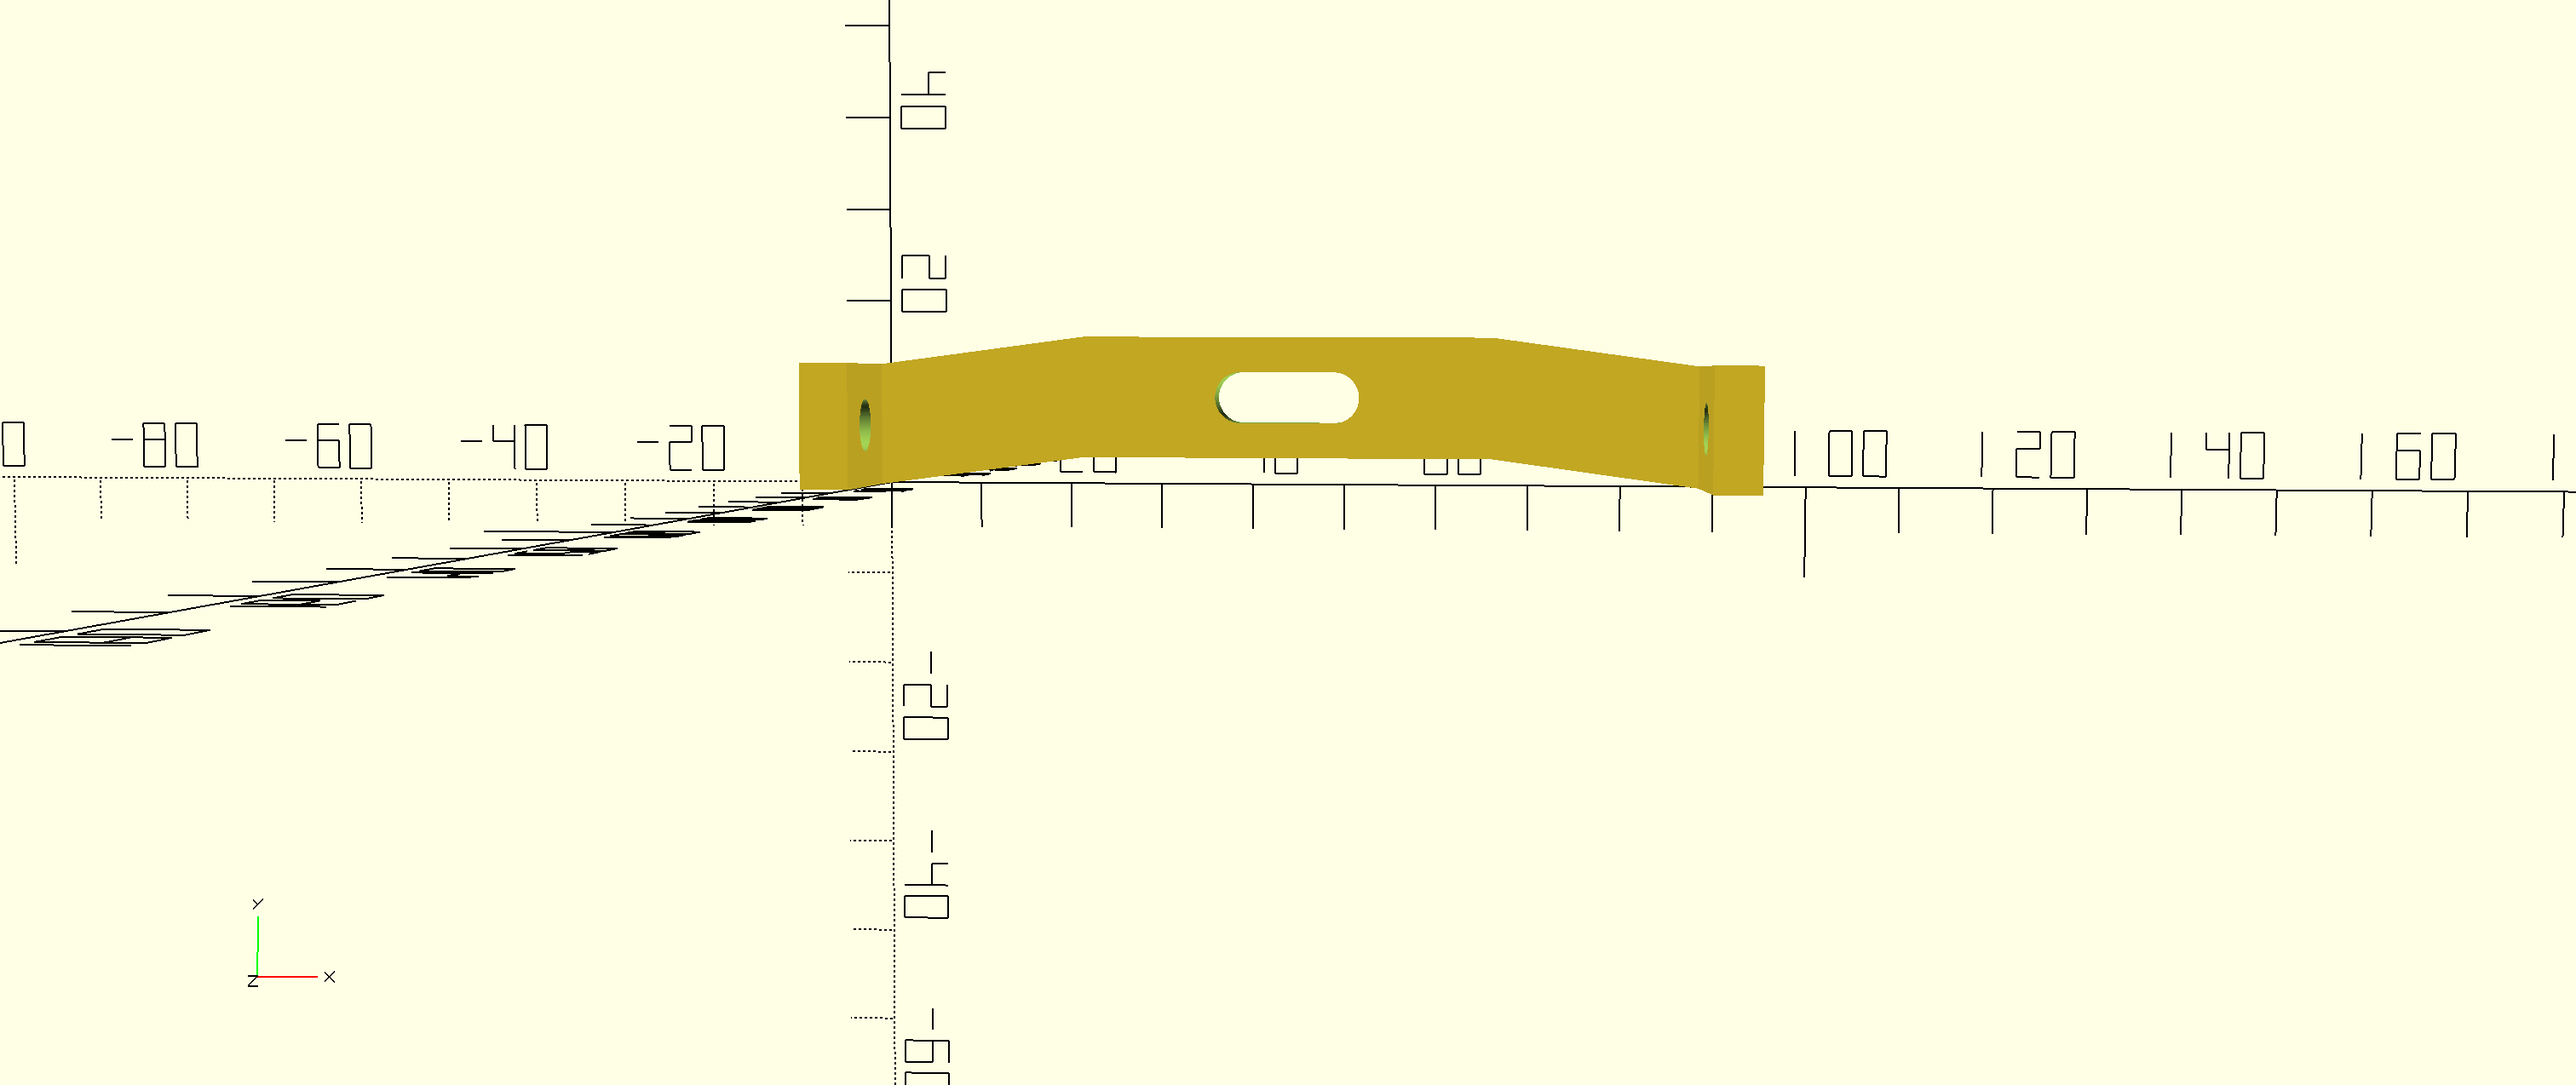
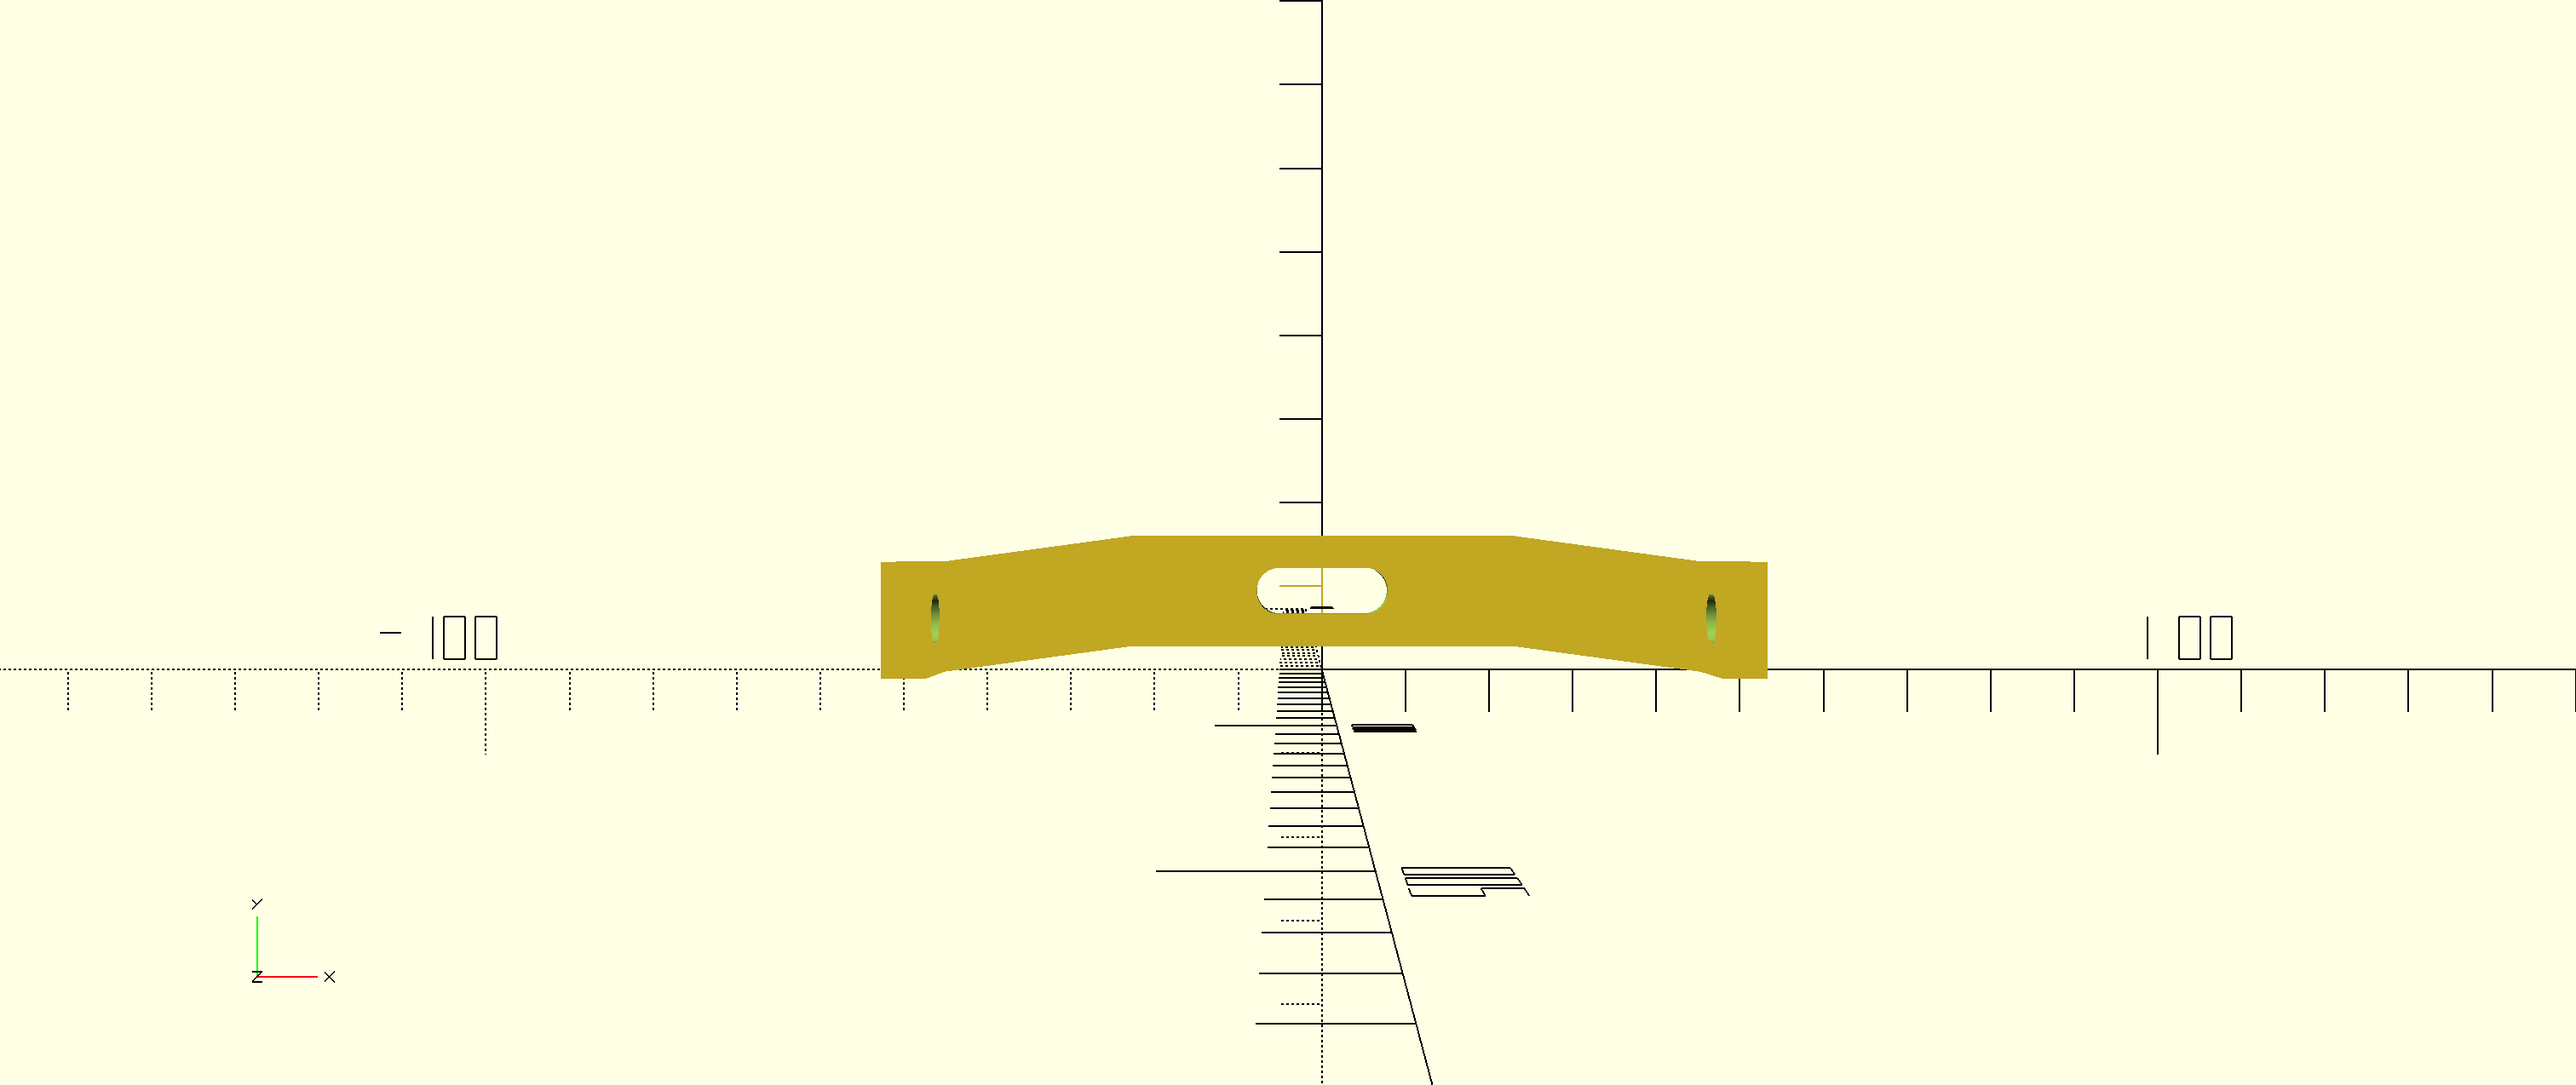
refactor to center on origin

diff --git a/README.md b/README.md
@@ -12,5 +12,5 @@ The bracket mounts on the upper end of the seat stays.
 * ~~add screw hole recess~~
 * ~~set correct screw diameter~~
 * ~~add scaling factor~~
-* refactor to center on origin?
+* ~~refactor to center on origin~~
 * add chamfer?
